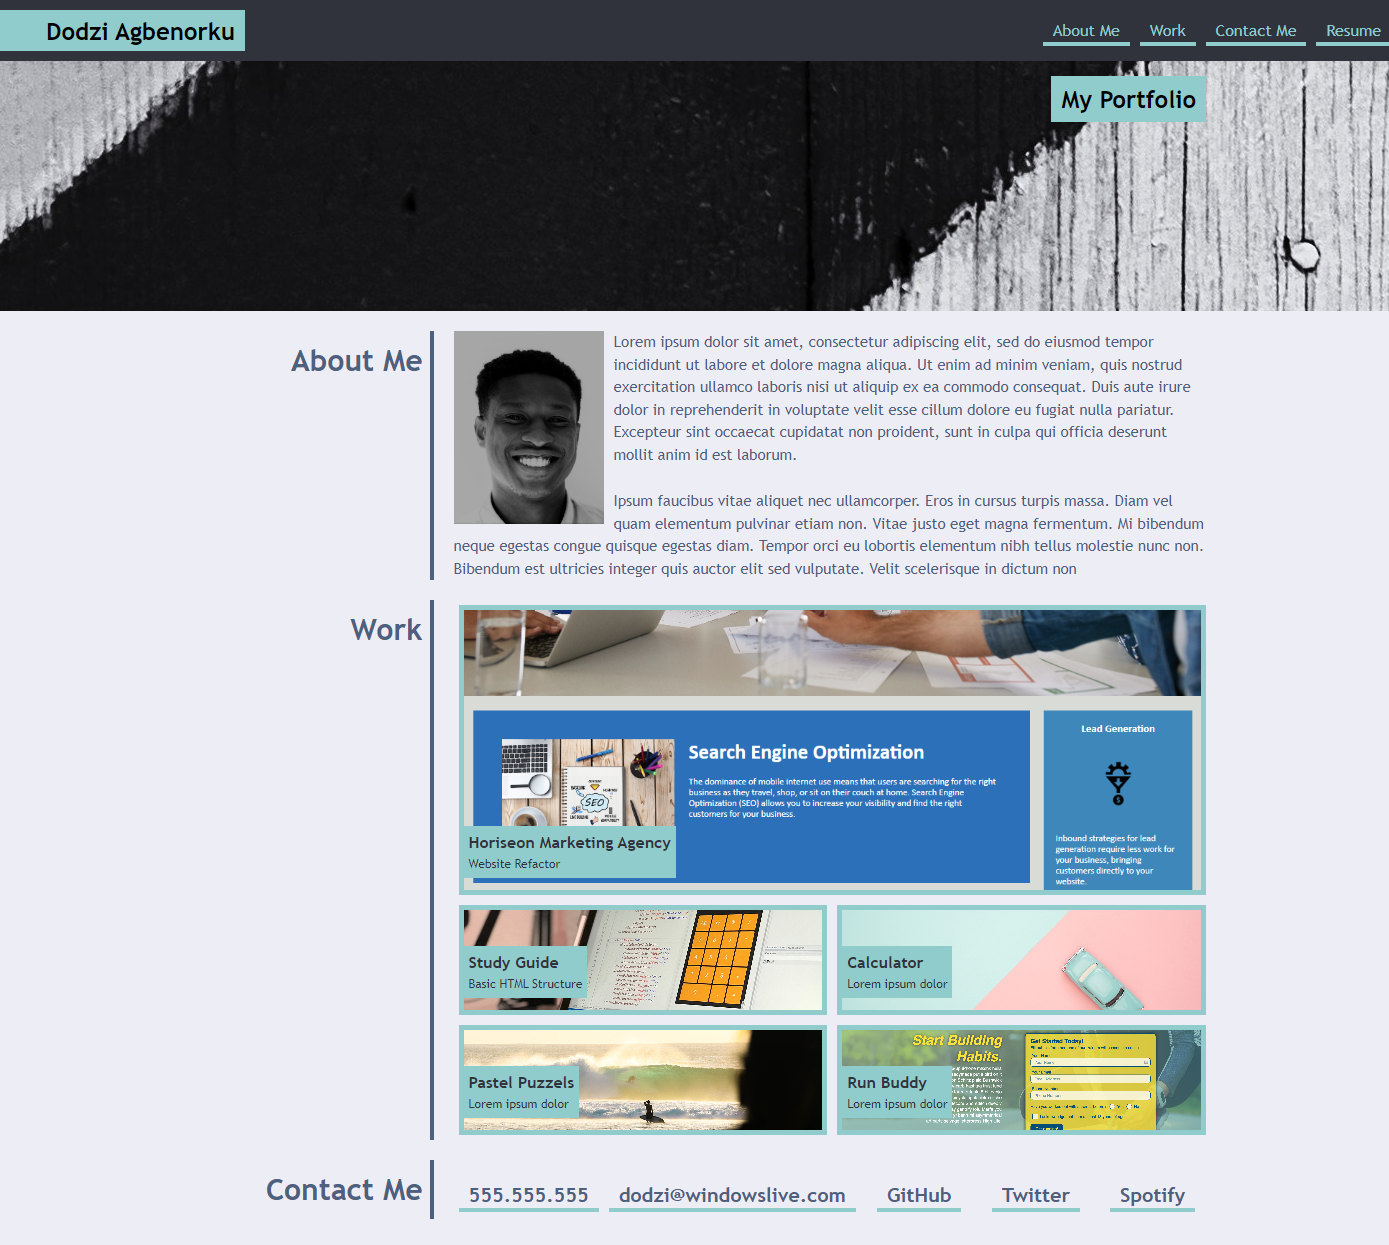
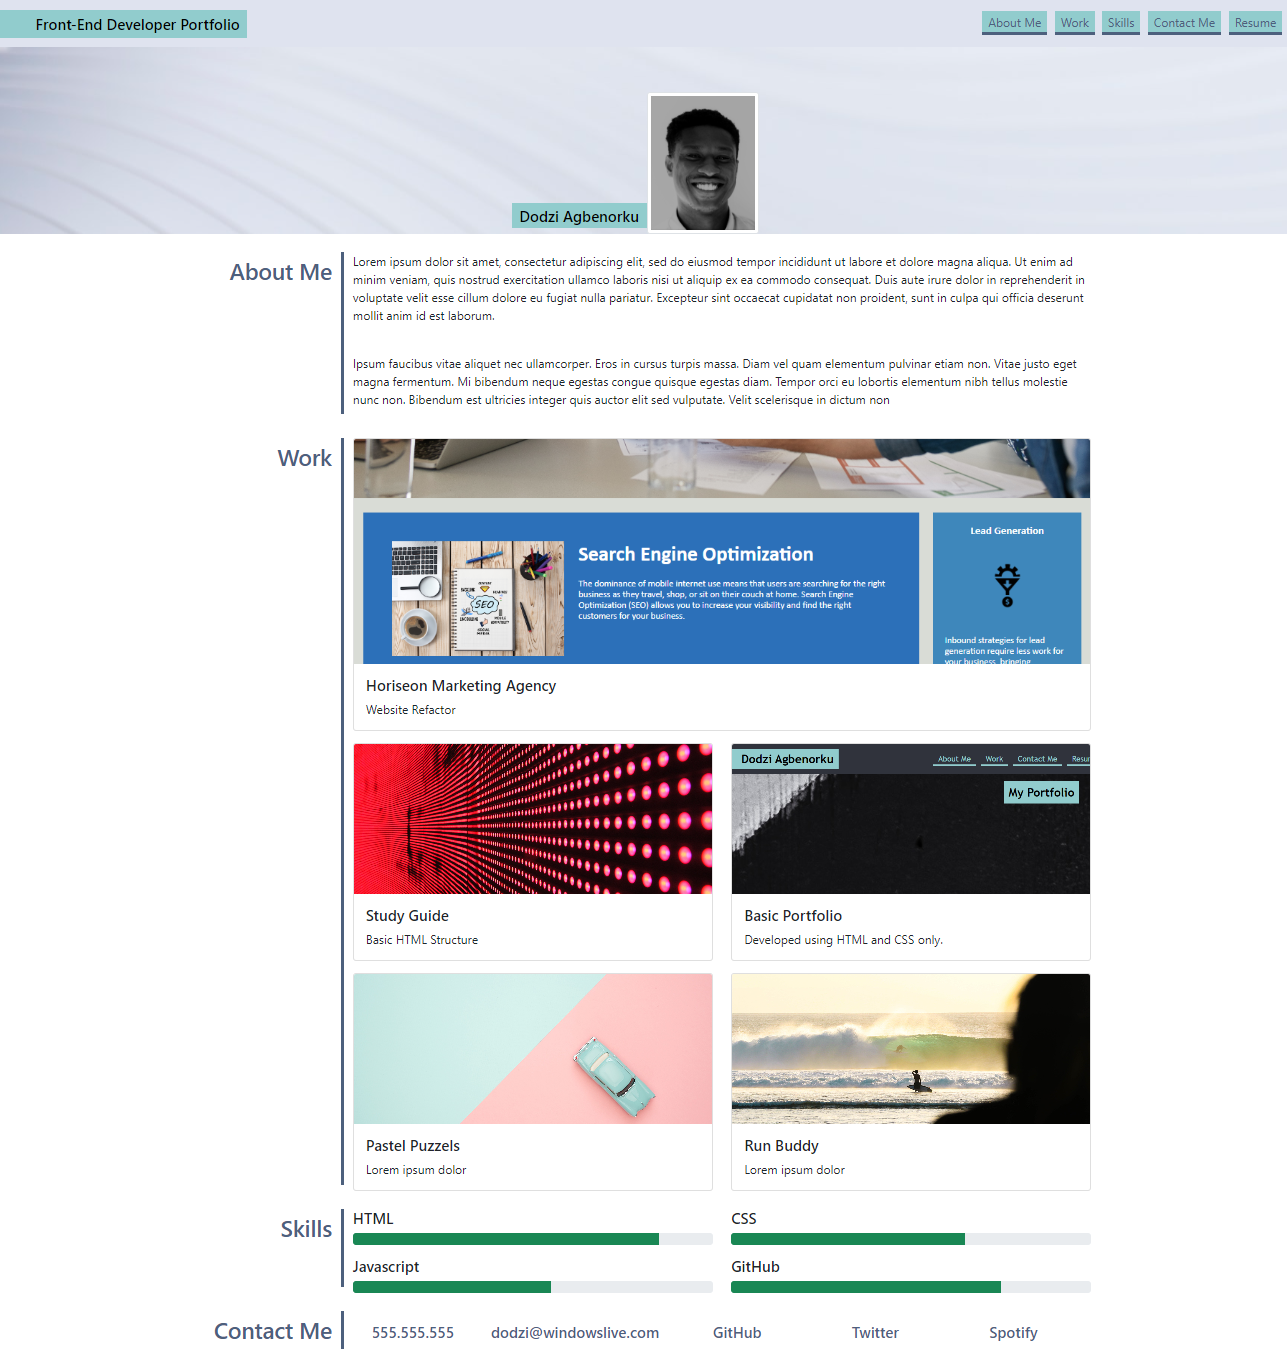
Improvements to HTML, CSS and Readme

diff --git a/index.html b/index.html
@@ -22,11 +22,11 @@
               </button>
               <div class="collapse navbar-collapse" id="navbarNavAltMarkup">
                 <div class="navbar-nav ms-auto">
-                  <a class="nav-link" href="#aboutDetail">About Me</a>
-                  <a class="nav-link" href="#workDetail">Work</a>
-                  <a class="nav-link" href="#skillDetail">Skills</a>
-                  <a class="nav-link" href="#contactDetail">Contact Me</a>
-                  <a class="nav-link" href="#" target="_blank">Resume</a>
+                  <a class="primary-link nav-link" href="#aboutDetail">About Me</a>
+                  <a class="primary-link nav-link" href="#workDetail">Work</a>
+                  <a class="primary-link nav-link" href="#skillDetail">Skills</a>
+                  <a class="primary-link nav-link" href="#contactDetail">Contact Me</a>
+                  <a class="primary-link nav-link" href="#" target="_blank">Resume</a>
                 </div>
               </div>
             </div>
@@ -50,7 +50,6 @@
         <section class="page-section row" id="aboutHeading">
           <h2 class="title col-xs-12 col-sm-12 col-md-3 col-lg-2 col-xl-2">About Me</h2>
           <div class="detail col-xs-12 col-sm-12 col-md-9 col-lg-10 col-xl-10" id="aboutDetail">
-            <!-- <img id="profile-image" src="./images/profile-image.jpg"> -->
             <p class="about-text">Lorem ipsum dolor sit amet, consectetur adipiscing elit, sed do eiusmod tempor incididunt ut labore et dolore magna aliqua. Ut enim ad minim veniam, quis nostrud exercitation ullamco laboris nisi ut aliquip ex ea commodo consequat. Duis aute irure dolor in reprehenderit in voluptate velit esse cillum dolore eu fugiat nulla pariatur. Excepteur sint occaecat cupidatat non proident, sunt in culpa qui officia deserunt mollit anim id est laborum.</p>
             <br>
             <p  class="about-text">Ipsum faucibus vitae aliquet nec ullamcorper. Eros in cursus turpis massa. Diam vel quam elementum pulvinar etiam non. Vitae justo eget magna fermentum. Mi bibendum neque egestas congue quisque egestas diam. Tempor orci eu lobortis elementum nibh tellus molestie nunc non. Bibendum est ultricies integer quis auctor elit sed vulputate. Velit scelerisque in dictum non</p>
@@ -63,7 +62,8 @@
           <h2 class="title col-xs-12 col-sm-12 col-md-3 col-lg-2 col-xl-2">Work</h2>
           <div class="detail col-xs-12 col-sm-12 col-md-9 col-lg-10 col-xl-10" id="">
            
-              <div class="card mb-3">
+              <div class="primary-link card mb-3">
+                <a class="link" target="_blank" href="https://github.com/dodzikojo/marketing-agency-website-code-refactor"></a>
                 <img src="/images/post-refactor.png" class="card-img-top featured-card-img" alt="...">
                 <div class="card-body">
                   <h5 class="card-title">Horiseon Marketing Agency</h5>
@@ -72,7 +72,8 @@
               </div>
                  <div class="row">
                     <div class="col-xs-12 col-sm-12 col-md-6 col-lg-6">
-                        <div class="card">
+                        <div class="primary-link card">
+                            <a class="link" target="_blank" href="https://github.com/dodzikojo/prework-study-guide"></a>
                             <img src="/images/02-portfolio-1.jpg" class="work-img card-img-top" alt="...">
                             <div class="card-body">
                               <h5 class="card-title">Study Guide</h5>
@@ -81,18 +82,20 @@
                         </div>
                     </div>
                     <div class="col-xs-12 col-sm-12 col-md-6 col-lg-6">
-                        <div class="card">
-                            <img src="/images/02-portfolio-2.jpg" class="work-img card-img-top" alt="...">
+                        <div class="primary-link card">
+                            <a class="link" target="_blank" href="https://github.com/dodzikojo/portfolio"></a>
+                            <img src="/images/portfolio.png" class="work-img card-img-top" alt="...">
                             <div class="card-body">
-                              <h5 class="card-title">Calculator</h5>
-                              <p class="card-text">Lorem ipsum dolor</p>
+                              <h5 class="card-title">Basic Portfolio</h5>
+                              <p class="card-text">Developed using HTML and CSS only.</p>
                             </div>
                         </div>
                     </div>
                 </div>
                 <div class="row mt-3">
                     <div class="col-xs-12 col-sm-12 col-md-6 col-lg-6">
-                        <div class="card">
+                        <div class="primary-link card">
+                            <a class="link" target="_blank" href="#"></a>
                             <img src="/images/02-portfolio-3.jpg" class="work-img card-img-top" alt="...">
                             <div class="card-body">
                               <h5 class="card-title">Pastel Puzzels</h5>
@@ -101,7 +104,8 @@
                         </div>
                     </div>
                     <div class="col-xs-12 col-sm-12 col-md-6 col-lg-6">
-                        <div class="card">
+                        <div class="primary-link card">
+                            <a class="link" target="_blank" href="#"></a>
                             <img src="/images/02-portfolio-4.jpg" class="work-img card-img-top" alt="...">
                             <div class="card-body">
                               <h5 class="card-title">Run Buddy</h5>
@@ -122,25 +126,25 @@
                 <div class="mb-3 col-xs-12 col-sm-12 col-md-4 col-lg-6 col-xl-6">
                     <h5>HTML</h5>
                     <div class="progress">
-                        <div class="progress-bar progress-bar-animated" role="progressbar" aria-valuenow="85" aria-valuemin="0" aria-valuemax="100" style="width: 85%"></div>
+                        <div class="progress-bar progress-bar-animated bg-success" role="progressbar" aria-valuenow="85" aria-valuemin="0" aria-valuemax="100" style="width: 85%"></div>
                       </div>
                 </div>
                 <div class="mb-3 col-xs-12 col-sm-12 col-md-4 col-lg-6 col-xl-6">
                     <h5>CSS</h5>
                     <div class="progress">
-                        <div class="progress-bar  progress-bar-animated" role="progressbar" aria-valuenow="65" aria-valuemin="0" aria-valuemax="100" style="width: 65%"></div>
+                        <div class="progress-bar  progress-bar-animated bg-success" role="progressbar" aria-valuenow="65" aria-valuemin="0" aria-valuemax="100" style="width: 65%"></div>
                       </div>
                 </div>
                 <div class="col-xs-12 col-sm-12 col-md-4 col-lg-6 col-xl-6">
                     <h5>Javascript</h5>
                     <div class="progress">
-                        <div class="progress-bar progress-bar-animated" role="progressbar" aria-valuenow="55" aria-valuemin="0" aria-valuemax="100" style="width: 55%"></div>
+                        <div class="progress-bar progress-bar-animated bg-success" role="progressbar" aria-valuenow="55" aria-valuemin="0" aria-valuemax="100" style="width: 55%"></div>
                       </div>
                 </div>
                 <div class="col-xs-12 col-sm-12 col-md-4 col-lg-6 col-xl-6">
                     <h5>GitHub</h5>
                     <div class="progress">
-                        <div class="progress-bar progress-bar-animated" role="progressbar" aria-valuenow="75" aria-valuemin="0" aria-valuemax="100" style="width: 75%"></div>
+                        <div class="progress-bar progress-bar-animated bg-success" role="progressbar" aria-valuenow="75" aria-valuemin="0" aria-valuemax="100" style="width: 75%"></div>
                       </div>
                 </div>
             </div>
@@ -151,8 +155,8 @@
         <!-- contact -->
         <section class="page-section contact row mt-4" id="contact">
           <h2 class="title col-xs-12 col-sm-12 col-md-3 col-lg-2 col-xl-2">Contact Me</h2>
-          <div class="row detail col-xs-12 col-sm-12 col-md-9 col-lg-10 col-xl-10" id="contactDetail">
-            <h5 class="text-center col" id="phoneNumber"><a href="#">555.555.555</a></h5>
+          <div class="pt-3 row detail col-xs-12 col-sm-12 col-md-9 col-lg-10 col-xl-10" id="contactDetail">
+            <h5 class="contact-info text-center col" id="phoneNumber"><a href="#">555.555.555</a></h5>
             <h5 class="contact-info text-center col" id="emailAddress"><a href="mailto:dodzi@windowslive.com">dodzi@windowslive.com</a></h5>
             <h5 class="contact-info text-center col" id="github"><a class="" target="_blank" href="https://github.com/dodzikojo">GitHub</a></h5>
             <h5 class="contact-info text-center col" id="twitter"><a target="_blank" href="https://twitter.com/dodzi_">Twitter</a></h5>
@@ -161,6 +165,17 @@
         </section>
     
       </main>
-    
+      <footer class="text-center mt-3 bg-light pt-2 pb-2">
+       
+        <div>
+            
+            <a class="" target="_blank" href="https://twitter.com/dodzi_"><img class="m-2 mx-3 social-img" src="/images/twitter.png" alt="twitter-social"> </a>
+            <a class="" target="_blank" href="https://www.linkedin.com/in/dodziagbenorku/"><img class="m-2 social-img" src="/images/linkedin.png" alt="twitter-social"></a>
+            <a class="" target="_blank" href="https://www.youtube.com/"><img class="m-2 social-img" src="/images/youtube.png" alt="twitter-social"></a>
+        </div>
+        <p>
+            &copy; 2022 Dodzi Agbenorku
+        </p>
+    </footer>
 </body>
 </html>

diff --git a/css/style.css b/css/style.css
@@ -20,11 +20,6 @@
         width: 95% !important;
         }
 
-        /* .title {
-        text-align: right;
-        justify-content: right;
-        border-bottom: 4px solid #4d607d;
-      } */
 }
 
 /* Medium devices (landscape tablets, 768px and up) */
@@ -117,10 +112,7 @@ nav.navbar.navbar-expand-lg.navbar-light.bg-light {
 
 #profile-image {
   object-fit: contain;
-  /* display: inline; */
-  /* position: relative; */
   width: 150px;
-  /* float: left; */
 }
 
 
@@ -129,9 +121,6 @@ nav.navbar.navbar-expand-lg.navbar-light.bg-light {
   color: black;
   padding: 5px 10px 5px 10px;
   font-size: 20px;
-  /* margin: 15px; */
-  /* position: absolute;
-  float: right; */
 }
 
 .workGridArea {
@@ -159,7 +148,31 @@ nav.navbar.navbar-expand-lg.navbar-light.bg-light {
     object-fit: cover;
 }
 
-.contact-info {
+.contact-info a {
   text-decoration: none;
   color: #4d607d !important;
 }
+
+.contact-info a:hover {
+    text-decoration: underline;
+    color: #4d607d !important;
+  }
+
+.link {
+    position: absolute;
+    top: 0;
+    left: 0;
+    width: 100%;
+    height: 100%;
+    z-index: 100;
+  }
+
+  .social-img {
+    width: 30px;
+  }
+
+  .primary-link:hover {
+    color: black !important;
+    border: 2px solid black;
+  }
+  

diff --git a/README.md b/README.md
@@ -1,1 +1,13 @@
-# Bootstrap-Portfolio
+# Bootstrap Portfolio
+Website showing a list of project i've been involved in.
+
+## About this project
+This is a simple project showing some recent projects. It is a simple one page website demonstrating a number of HTML and CSS capabilities primary using Bootstrap.
++ CSS Selectors
++ Mobile-first responsive design with Bootstrap
+
+
+## Preview
+![preview](./images/preview.png)
+
+[Live Preview](https://dodzikojo.github.io/Bootstrap-Portfolio/ "Live Preview")
